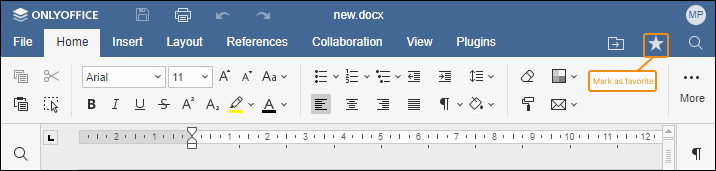
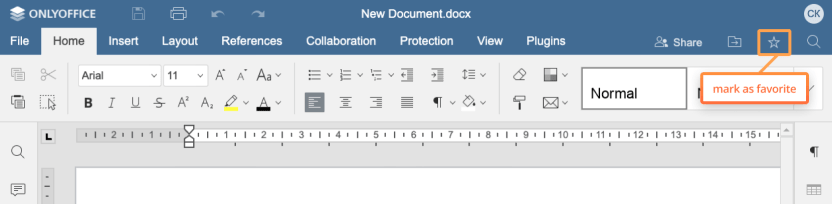
updated screenshots

Changed region(s): [[0.0, 0.0, 1.0, 1.0]]

diff --git a/web/Content/styles.css b/web/Content/styles.css
@@ -2736,3 +2736,8 @@ select {
     select:invalid {
         color: #CCCCCC;
     }
+
+.screenshot {
+    outline: 1px solid #EFEFEF;
+    outline-offset: -1px;
+}
